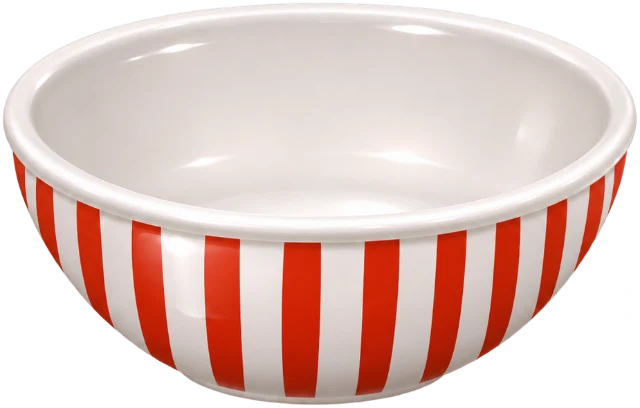
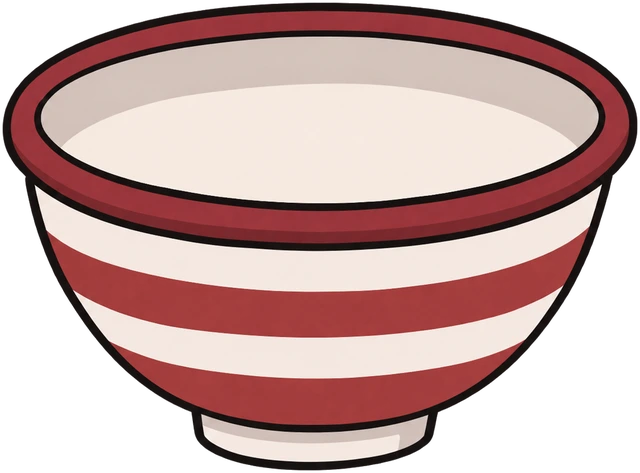
New flat art: counter + kitchen backgrounds and all 13 props
- counter.webp, kitchen.webp: flat outlined style that matches the
  owner's hand-drawn characters (kitchen worktop at the old 58%/71%)
- prop-*.webp: redrawn in the same style, trimmed and sized like before
- counter: "FROM THE KITCHEN" moved onto the new red sign (two lines)
- counter: the ラーメン text gets its own red banner (the new art has none)

Claude-Session: https://claude.ai/code/session_01XdUhoZTBNg7jMCXvAE9XAF

diff --git a/src/render/scenery.ts b/src/render/scenery.ts
@@ -249,7 +249,11 @@ export function counterBG(g) {
     g.fillStyle = '#FFF4E2';
     g.font = '900 13px "M PLUS Rounded 1c"';
     g.textAlign = 'center';
-    g.fillText(T('FROM THE KITCHEN', '厨房出餐'), 137, 226);
+    // on the red sign of the kitchen hatch (stage x 35-151, y 139-190 in the painted counter)
+    if (T('en', 'zh') === 'en') {
+      g.fillText('FROM THE', 93, 161);
+      g.fillText('KITCHEN', 93, 177);
+    } else g.fillText('厨房出餐', 93, 169);
     g.textAlign = 'left';
     return;
   }

diff --git a/src/render/views.ts b/src/render/views.ts
@@ -382,6 +382,13 @@ export function drawCounter(dt) {
   }
   // the vertical shop sign outside, like the one across the street
   if (art) {
+    // the painted counter has no banner of its own: a flat red one in the same outlined style
+    rr(g, 277, 133, 28, 112, 4);
+    g.fillStyle = '#C0483D';
+    g.fill();
+    g.lineWidth = 3;
+    g.strokeStyle = '#1B1418';
+    g.stroke();
     g.fillStyle = '#FFF4E2';
     g.font = '900 17px "M PLUS Rounded 1c"';
     g.textAlign = 'center';
